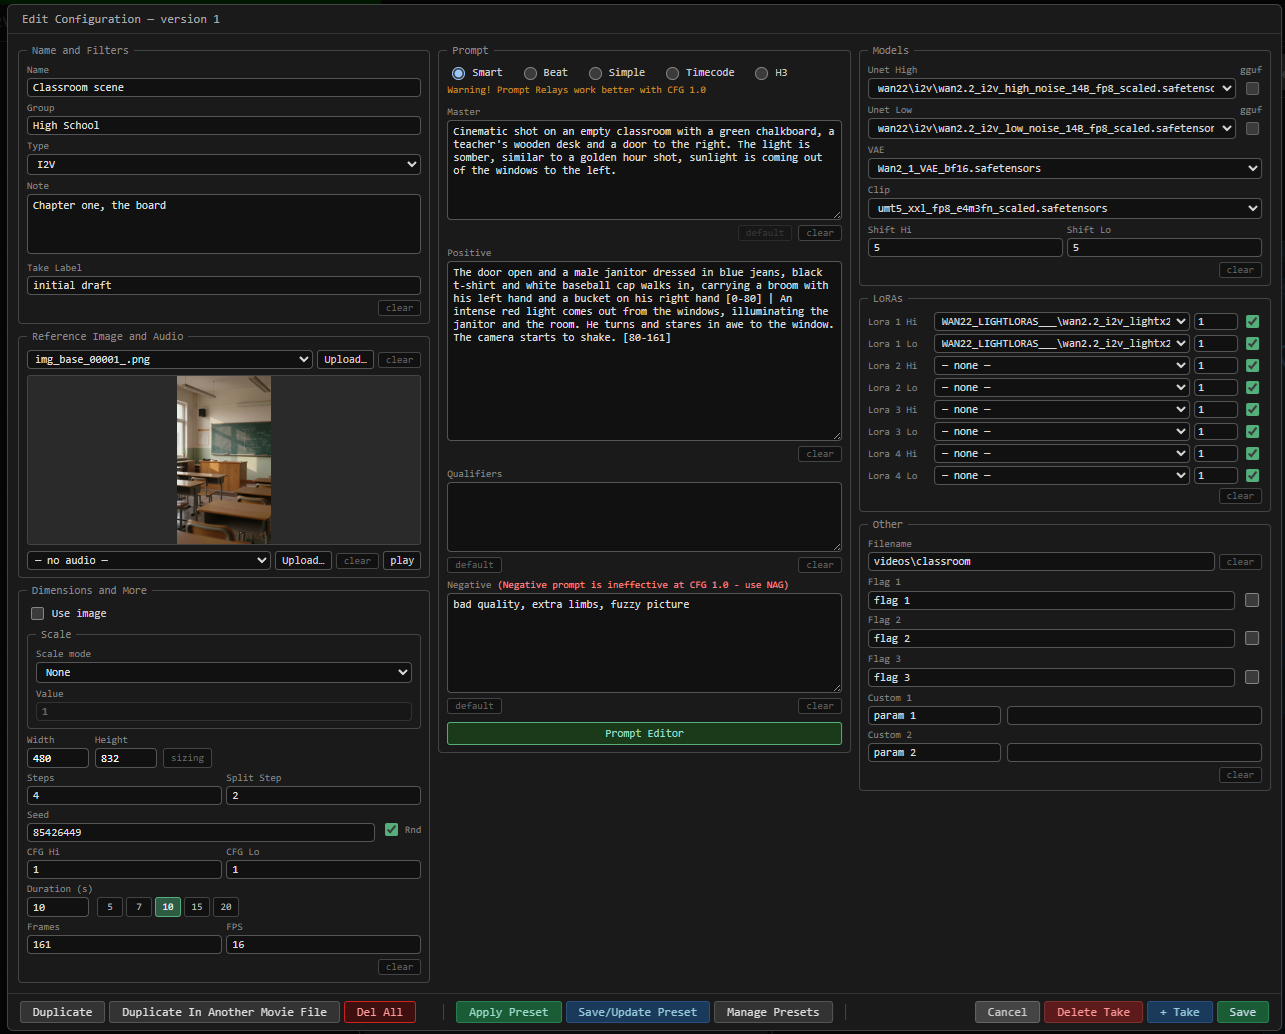
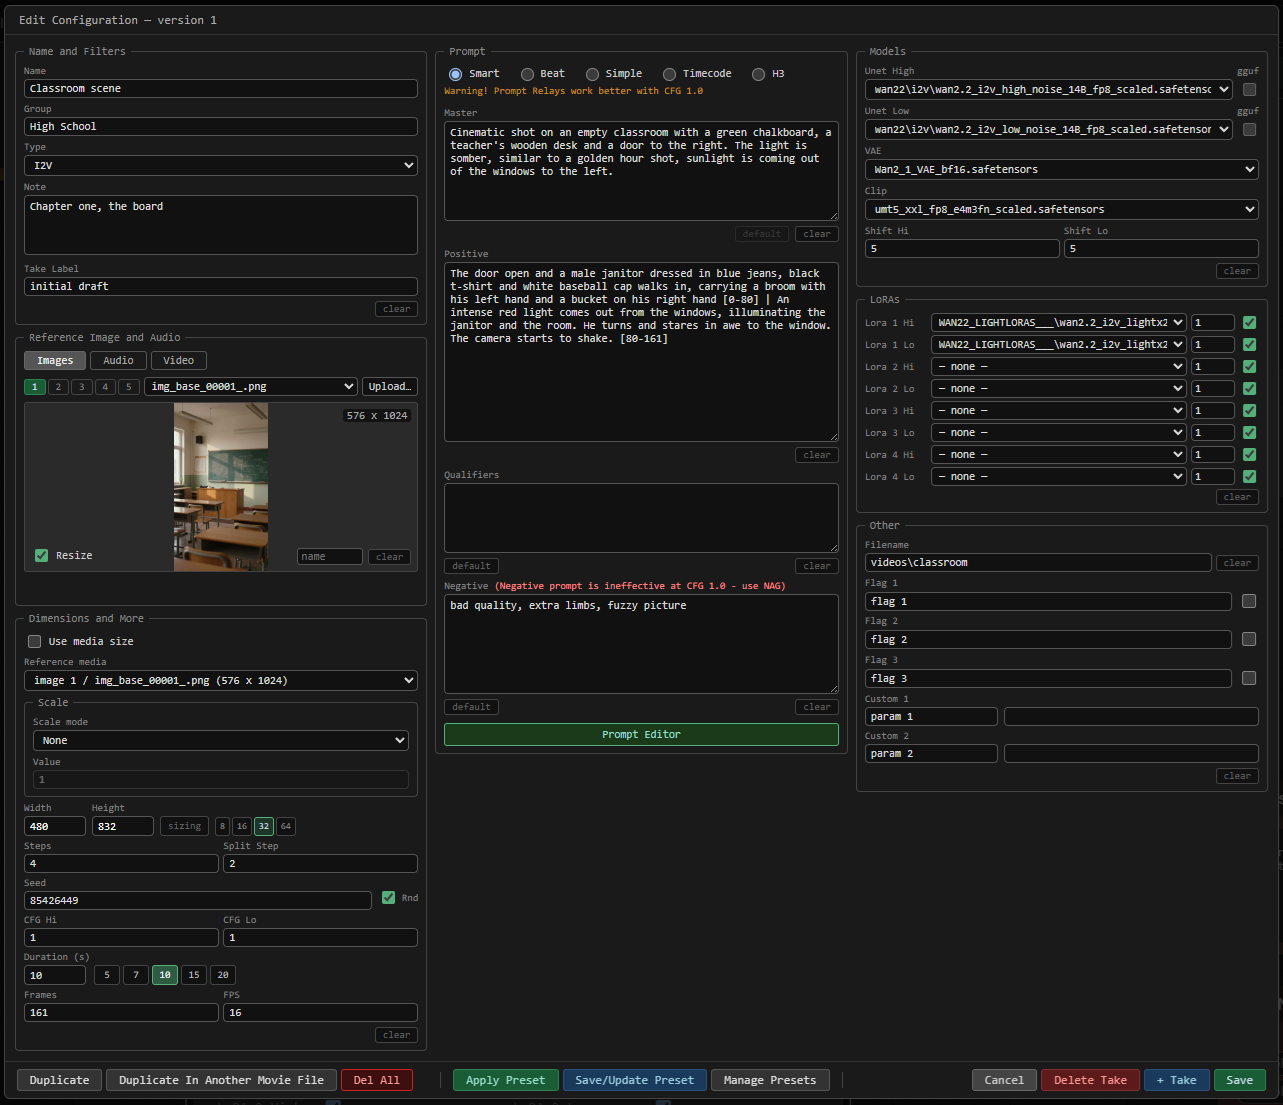
Add a Movie Manager screenshot to the README
Also refreshes the editor and node samples.

diff --git a/README.md b/README.md
@@ -57,6 +57,8 @@ All destructive actions ask for confirmation first, and the popup stays open and
 
 **Back** closes the popup without loading anything, reconciling the node's dropdowns to whatever still exists on disk (in case something was deleted while the Manager was open).
 
+![Sample movie manager](content/sample_movie_mgr_v1.png)
+
 #### Filters
 
 Five possible filters at the top of the node let you narrow down which scenes/takes are shown:
